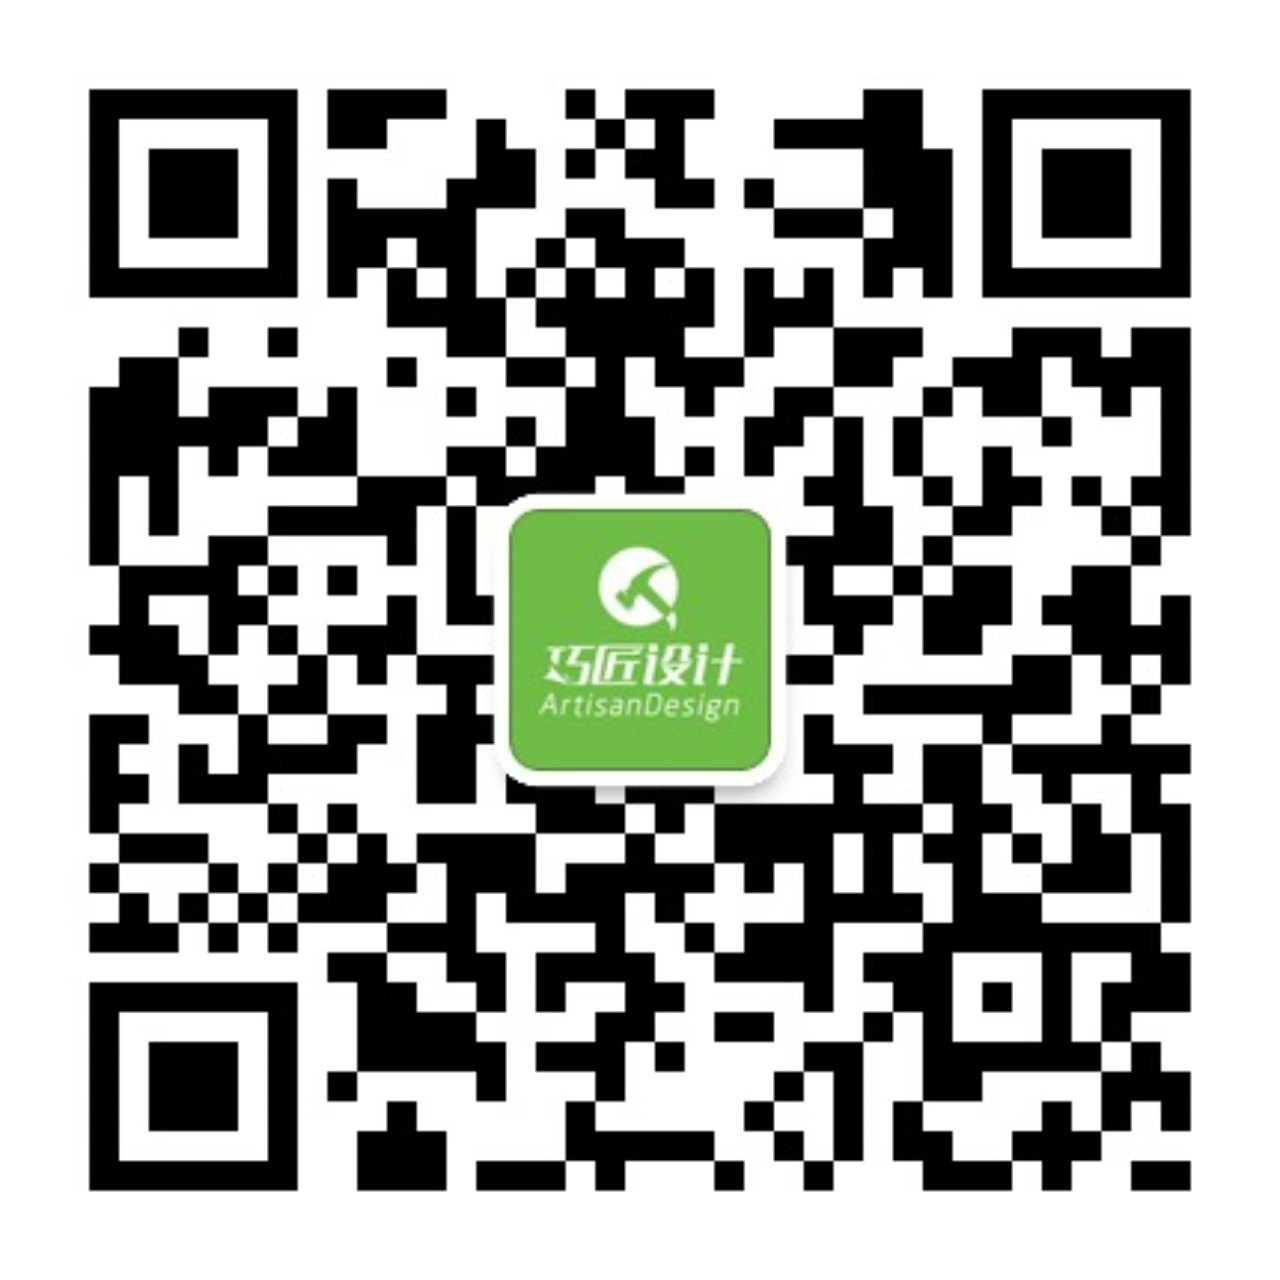
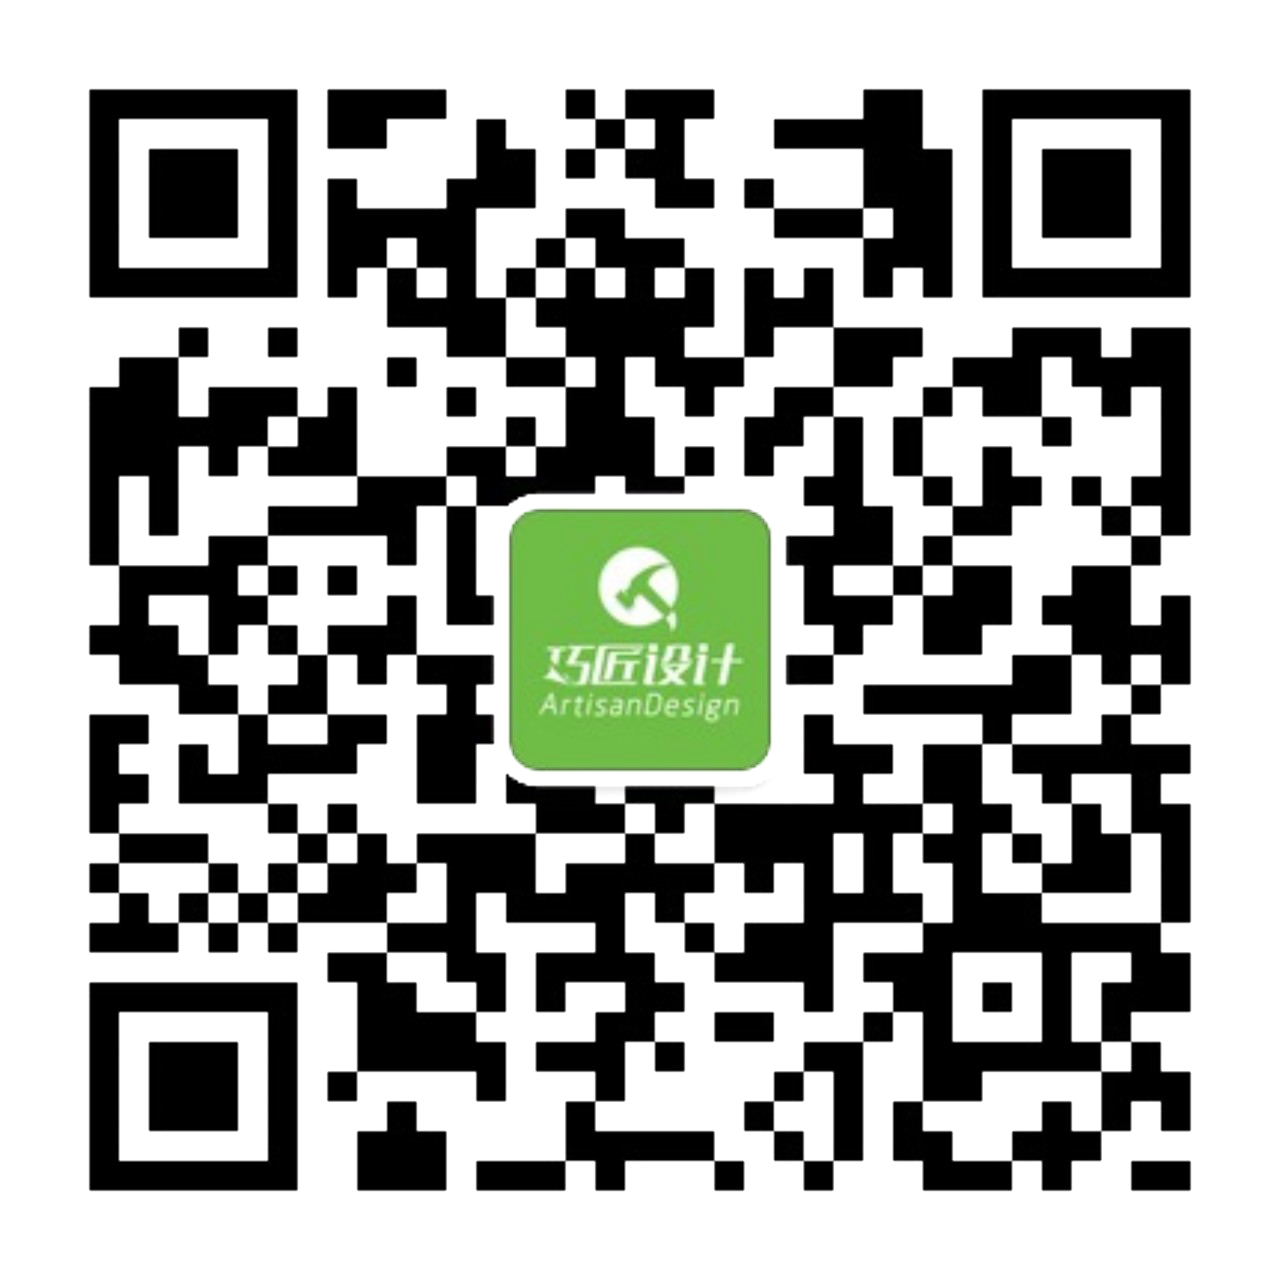
二维码css

Changed region(s): [[0.5625, 0.5938, 0.625, 0.625], [0.4688, 0.5938, 0.5, 0.625]]

diff --git a/static/css/main.css b/static/css/main.css
@@ -307,6 +307,7 @@ h1, h2, h3, h4, h5, h6, p { margin: 0; font-weight: normal; }
 .footer .top p { padding-right: 40px; padding-bottom: 20px; color: #333; -webkit-appearance: none; }
 .footer .bottom { margin-top: 40px; font-size: 12px; text-align: center; }
 .footer .qrcode { padding-bottom: 10px; width: 120px; height: 120px; }
+.footer .qrcode img { width: 120px; }
 @media screen and (max-width: 800px) { .footer .top { padding-left: 0; text-align: center; }
   .footer .top p { padding-right: 0; }
   .footer div.l { margin: 0; width: 100%; } }

diff --git a/static/sass/index.scss b/static/sass/index.scss
@@ -433,6 +433,9 @@
         padding-bottom: 10px;
         width: 120px;
         height: 120px;
+        img{
+            width: 120px;
+        }
     }
     @media screen and (max-width: 800px) {
         .top{
